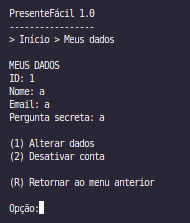
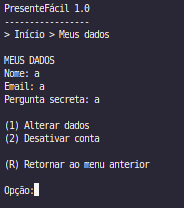
Ajustes

diff --git a/src/presentefacil/view/user/MyDataView.java b/src/presentefacil/view/user/MyDataView.java
@@ -20,7 +20,6 @@ public class MyDataView extends View {
             User user = UserController.INSTANCE.findUserById(GlobalMemory.getUserId());
             String menu = String.format("""
                 MEUS DADOS
-                ID: %s
                 Nome: %s
                 Email: %s
                 Pergunta secreta: %s
@@ -31,7 +30,6 @@ public class MyDataView extends View {
                 (R) Retornar ao menu anterior
 
                 Opção: """,
-                    user.getId(),
                     user.getName(),
                     user.getEmail(),
                     user.getSecretQuestion()

diff --git a/README.md b/README.md
@@ -1,11 +1,14 @@
 # Relatório do Trabalho Prático - Presentefacil
 
 ## Participantes
-- Gustavo Silva
-- [Adicionar outros nomes dos participantes]
+- Caio Fernandes da Silva
+- Gustavo Lopes Oliveira
+- Heitor Canhestro Vieira Moreira
+- Lucas Soares Tavares
 
 ## Descrição do Sistema
 O sistema Presentefacil é uma aplicação para gerenciamento de listas de presentes, permitindo que usuários criem, editem e compartilhem listas vinculadas ao seu perfil. O objetivo é facilitar a organização de eventos e presentes, tornando o processo mais eficiente e colaborativo.
+
 
 ### Funcionalidades Principais
 - Cadastro, edição, exclusão e consulta de usuários.
@@ -15,9 +18,11 @@ O sistema Presentefacil é uma aplicação para gerenciamento de listas de prese
 - Visualização de listas de outros usuários utilizando o código NanoID.
 
 ### Telas do Sistema
-![Tela de Cadastro de Usuário](imagens/cadastro_usuario.png)
-![Tela de Listas de Presentes](imagens/listas_presentes.png)
-![Tela de Compartilhamento por NanoID](imagens/compartilhar_nanoid.png)
+![Menu Principal](imagens/menuPrincipal.png)
+![Tela de Dados do Usuário](imagens/meusDados.png)
+![Tela de Listas de Presentes](imagens/minhasListas.png)
+![Dados das listas](imagens/listaExemplo.png)
+![Tela de Compartilhamento por NanoID](imagens/buscaLista.png)
 
 ### Classes Criadas
 - `Usuario`
